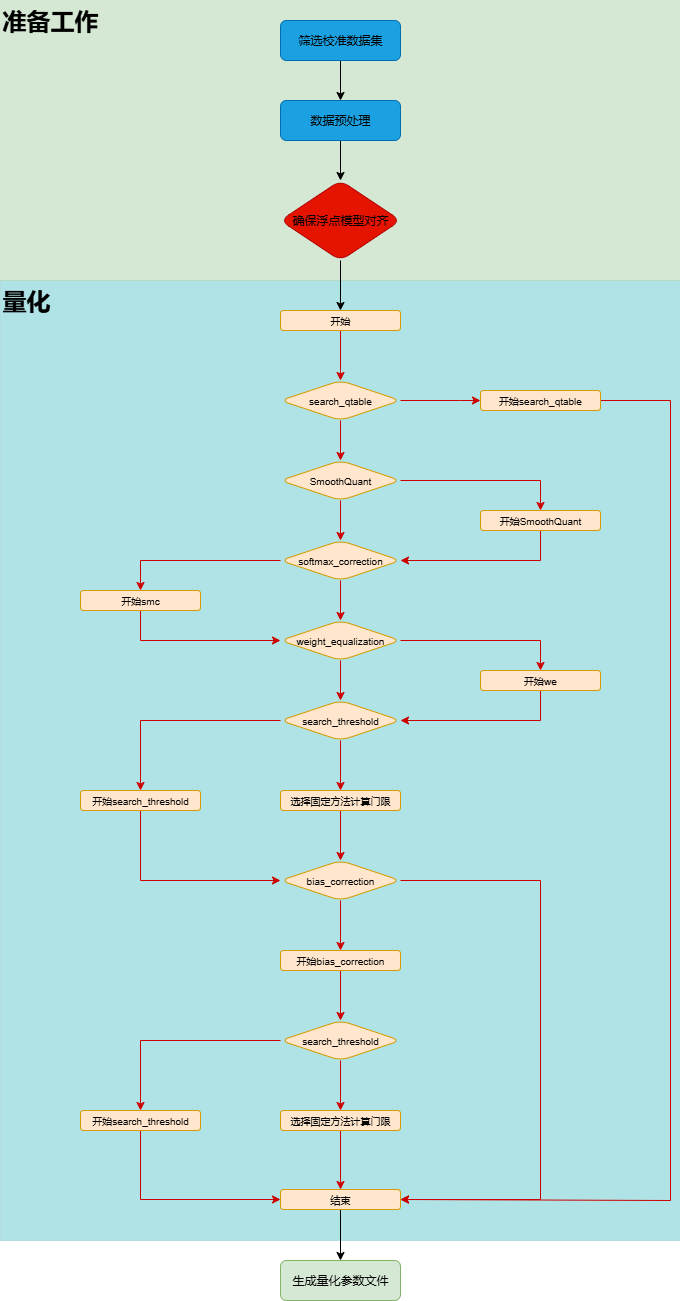
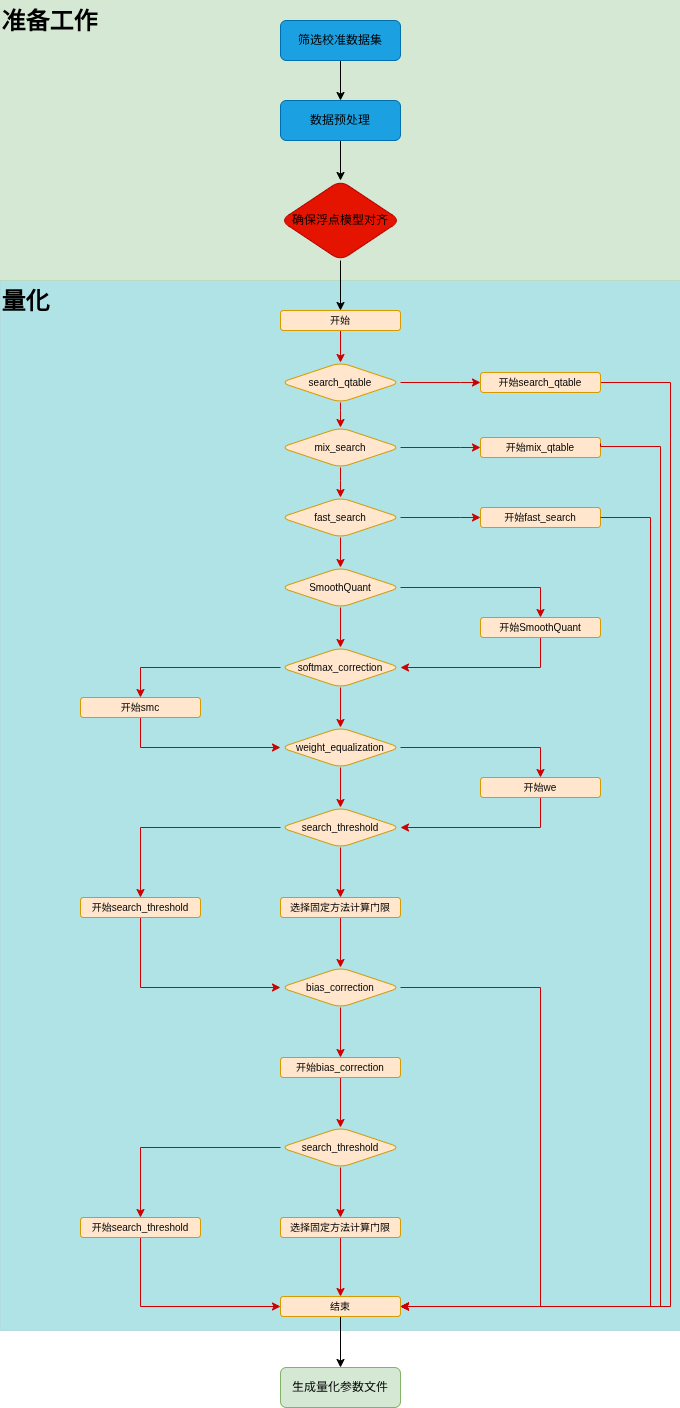
feat: update manual on calibration
-

diff --git a/docs/developer_manual/source_en/07_calibration.rst b/docs/developer_manual/source_en/07_calibration.rst
@@ -6,8 +6,11 @@ General introduction
 
 Calibration is the use of real scene data to tune the proper quantization parameters. Why do we need calibration? When we perform asymmetric quantization of the activation, we need to know the overall dynamic range, i.e., the minmax value, in advance. When applying symmetric quantization to activations, we need to use a suitable quantization threshold algorithm to calculate the quantization threshold based on the overall data distribution of the activation. However, the general trained model does not have the activation statistics. Therefore, both of them need to inference on a miniature sub-training set to collect the output activation of each layer.
 
-The calibration process in tpu-mlir includes automatic threshold search method (search_threshold), SmoothQuant(sq), softmax correction (smc), cross-layer weight equalization (we), bias correction (bc), and an automatic mixed precision feature (search_qtable), among other methods. The overall process is shown in(:ref:`quantization_process`). Among these, sq, smc, we, bc, search_qtable, and search_threshold are optional and can be combined according to the actual situation of the model to be quantized. Subsequent sections will also provide specific instructions for the use of each method.
+The calibration process in tpu-mlir includes automatic threshold search method (search_threshold), SmoothQuant(sq), softmax correction (smc), cross-layer weight equalization (we), bias correction (bc), and an automatic mixed precision feature (search_qtable, fast_search, mix_search), among other methods. The overall process is shown in(:ref:`quantization_process`). Among these, sq, smc, we, bc, search_qtable, and search_threshold are optional and can be combined according to the actual situation of the model to be quantized. Subsequent sections will also provide specific instructions for the use of each method.
 The above processes are integrated and executed collectively, and the optimized thresholds and min/max values of each operation are output to a quantization calibration parameter file called "cali_table." Subsequently, in the "model_deploy.py" script, these parameters can be used for further int8 quantization. If you have utilized the automatic mixed-precision feature, along with generating the "cali_table," a mixed-precision table "qtable" will also be produced. In the following "model_deploy.py" script, both of these files are required for subsequent int8 mixed-precision quantization.
+
+Calibration runs in recommanded docker environment, following algorithms are implemented in both cpu and gpu version, they are selected according the docker version and hardware environment. For large models who has occupy most host memory before running calibration, the gpu version may be faster, but for small models, cpu version make good use of parallel and is fast enough.
+
 
 .. _quantization_process:
 .. figure:: ../assets/quant.png
@@ -65,7 +68,7 @@ Input format and preprocessing
    * - Original Image
      - For CNN-like vision networks, image input is supported. Image preprocessing arguments must be the same as in training step when generating the mlir file by model_transform.py.
    * - npz or npy file
-     - For cases where non-image inputs or image preprocessing types are not supported at the moment, it is recommended to write an additional script to save the preprocessed input data into npz/npy files (npz file saves multiple tensors in the dictionary, and npy file only contains one tensor). run_calibration.py supports direct input of npz/npy files.
+     - For cases where non-image inputs or image preprocessing types are not supported at the moment or for multi-input models, it is recommended to write an additional script to save the preprocessed input data into npz/npy files (npz file saves multiple tensors in the dictionary, and npy file only contains one tensor). run_calibration.py supports direct input of npz/npy files.
 
 There is no need to specify the preprocessing parameters for the above two formats when calling run_calibration.py to call the mlir file for inference.
 
@@ -262,10 +265,21 @@ During the use of search_threshold, the following points need to be noted: 1. se
 search_qtable Algorithm
 ~~~~~~~~~~~~~~~~~~~~~~~~
 
-search_qtable is an automatic mixed-precision functionality integrated into the calibration process. When the accuracy of a fully int8 quantized model does not meet the requirements, you can try enabling the search_qtable algorithm. This algorithm is faster compared to run_sensitive_lyer. It also offers the ability to mix custom threshold algorithms and automatically generate a qtable.
+search_qtable is an automatic mixed-precision functionality integrated into the calibration process. When the accuracy of a fully int8 quantized model does not meet the requirements, you can try enabling the search_qtable algorithm. multi threshold from different algorithms will be tryed op by op to select the best one, and the influence to model accuracy of layers are sorted, too, which can be referred to in constructing qtable, it also generate a qtable.
 
 Implementation: The output of search_qtable will generate mixed thresholds, meaning it performs optimal selection for the threshold of each layer of the model. That is, it chooses the best result from multiple threshold calculation methods specified by the user for each layer. This choice is based on the comparison of the similarity between the quantized model's current layer output and the original model's current layer output. In addition to generating mixed thresholds, search_qtable will also output the layers of the model that are mixed precision.
 When the user specifies the desired similarity between the mixed precision model and the original model's output, search_qtable will automatically output the minimum number of mixed precision layers required to achieve that similarity level.
+
+mix_search and fast_search Option
+~~~~~~~~~~~~~~~~~~~~~~~~~~~~~~~~~~~~
+
+search_qtable often consumes long compute time when model is large, and it has best result and is firstly recommanded, but it requires large memory and long time too, mix_search and fast_search are provided to have fast try.
+
+In mix_search, from beginning of model, if the op doesn't meet min_layer_cos, it will be set float and check if model meets expected_cos, if amount of layers tried reach max_float_layers or 1/4 of total layers, search will end.
+Because the float model and quantized model may have different layer names due to optimization introduced in lowerring, the search is coarse, and this algorithm is legacy and may be used on simple models.
+
+fast_search is based on search_qtable, and classify layers be their type to narrow search set, the inference number is decreased too, to make it faster in search.
+
 
 .. _calibration_doc3:
 
@@ -463,7 +477,7 @@ search_qtable:
       --max_float_layers 5 \
       --expected_cos 0.99 \
       --transformer False \
-      --quantize_method_list KL,MSE \
+      --quantize_method_list kl,mse \
       --search search_qtable \
       --quantize_table yolov5s_qtable \
       -o yolov5s_cali_table
@@ -518,7 +532,7 @@ search_qtable:
    * - --global_compare_layers
      - Specifies the global comparison layers, for example, layer1,layer2 or layer1:0.3,layer2:0.7
    * - --search
-     - Specifies the type of search, including search_qtable, search_threshold, false. The default is false, which means search is not enabled
+     - Specifies the type of search, including search_qtable, search_threshold, mix_search, fast_search, false. The default is false, which means search is not enabled
    * - --transformer
      - Whether it is a transformer model, if it is, search_qtable can allocate specific acceleration strategies
    * - --quantize_method_list
@@ -541,6 +555,8 @@ search_qtable:
      - The mixed-precision quantization table output by search_qtable
    * - -o
      - output threshold table
+   * - --calibration_table
+     - same as -o option, output threshold table, also as input prepared threshold table in mix_serach
    * - --debug_cmd
      - debug command to specify calibration mode; “percentile9999” initialize the threshold via percentile function, “max” specifies the maximum of absolute value to be the threshold, “use_torch_observer_for_cali” adopts Torch observer for calibration. "mse" adopts Octav for calibration.
    * - --debug_log

diff --git a/docs/quick_start/source_zh/07_quantization.rst b/docs/quick_start/source_zh/07_quantization.rst
@@ -110,6 +110,8 @@ run_calibration参数介绍
      - search_qtable输出的混精度量化表
    * - o
      - 输出门限表
+   * - calibration_table
+     - 输出门限表，同-o选项，在mix_search时候输入提前计算好的量化表
    * - debug_cmd
      - debug命令
    * - debug_log
@@ -265,7 +267,7 @@ pattern-match
 =====================
 
 ``pattern-match`` 方法集成于 ``run_calibration`` 中,不需要显示指定参数,当前共有两类模型提供经验 ``qtable`` ,一类为 YOLO 系列,另一类为 BERT 等 Transformer 系列。
-在获得 ``cali_table`` 后,如果模型匹配上现有pattern,则会在 ``path/to/cali_table/`` 文件夹下生成qtable。
+在获得 ``cali_table`` 后,如果模型匹配上现有pattern,则会在 ``path/to/cali_table/`` 文件夹下生成qtable。同时在校准前也会对算子计算内容简单判断，如果是对shape，坐标等进行计算的算子也会包含在qtable中。
 
 YOLO系列自动混精度方法
 -------------------------------

diff --git a/docs/quick_start/source_en/07_quantization.rst b/docs/quick_start/source_en/07_quantization.rst
@@ -275,7 +275,7 @@ pattern-match
 
 The ``pattern-match`` method is integrated into ``run_calibration`` and does not require explicit parameter specification.
 Currently, there are two type of models for which experience ``qtable`` is provided: one is the YOLO series, and the other is the Transformer series (e.g., BERT).
-After obtaining the ``cali_table`` , if the model matches an existing pattern, a qtable will be generated in the ``path/to/cali_table/`` folder.
+After obtaining the ``cali_table`` , if the model matches an existing pattern, a qtable will be generated in the ``path/to/cali_table/`` folder. Before calibration, purpose of every op is judged, if it is calculating shape or position, it will be set float and included in qtable.
 
 YOLO Series Automatic Mixed Precision Method
 -----------------------------------------------